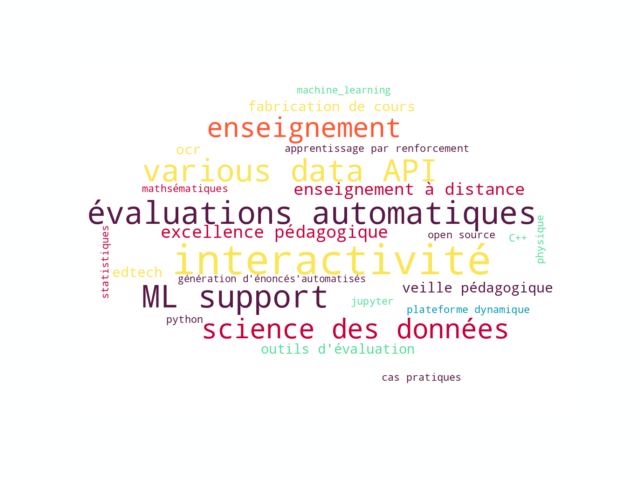
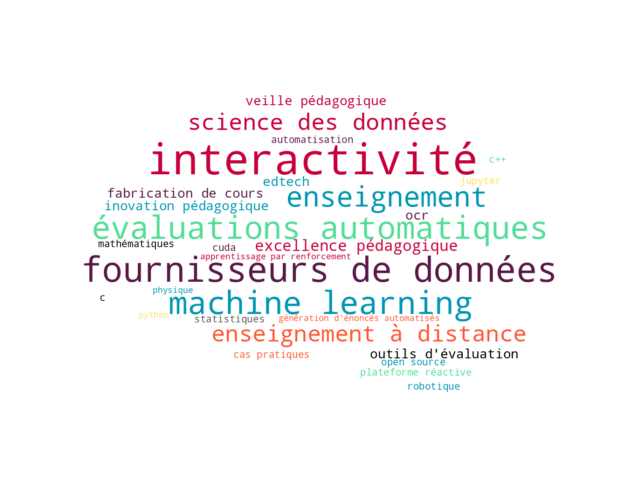
Update keywords

Changed region(s): [[0.125, 0.1562, 0.875, 0.8125]]

diff --git a/bulkhours/core/keywords.py b/bulkhours/core/keywords.py
@@ -5,36 +5,47 @@ import random as rd
 from PIL import Image
 
 from . import tools
-from .colors import caliases
+
+
+def get_caliases():
+    from .colors import caliases
+    ccaliases = caliases
+    #ccaliases["courses"] = "#585858"
+    return ccaliases
 
 
 def keywords():
-    return {"edtech": 2, 
-        "veille pédagogique": 2,
-        "cas pratiques": 1,
-        "génération d'énoncés'automatisés": 1, 
-        "interactivité": 5, 
-        "ML support": 4,
-        "various data API": 4,
-        "évaluations automatiques": 4,
-        "fabrication de cours": 2, 
-        "enseignement": 3, 
-        "science des données": 3, 
-        "plateforme dynamique": 1,
-        "outils d'évaluation": 2, 
-        "ocr": 2,
-        "enseignement à distance": 3,
-        "excellence pédagogique": 3,
-        "apprentissage par renforcement": 1,
-        "open source": 1,
-        "mathsématiques": 1,
-        "physique": 1,
-        "statistiques": 1,
-        "machine_learning": 1,
-        "jupyter": 1,
-        "python": 1,
-        "C++": 1,
+    return {"edtech": [2, None], 
+        "veille pédagogique": [2, None],
+        "cas pratiques": [1, None],
+        "génération d'énoncés automatisés": [1, None],
+        "interactivité": [5, None], 
+        "fournisseurs de données": [4, None],
+        "évaluations automatiques": [4, None],
+        "fabrication de cours": [2, None], 
+        "inovation pédagogique": [2, None],
+        "enseignement": [3, None],
+        "science des données": [3, None],
+        "plateforme réactive": [1, None],
+        "outils d'évaluation": [2, None],
+        "ocr": [2, None],
+        "enseignement à distance": [3, None],
+        "excellence pédagogique": [3, None],
+        "apprentissage par renforcement": [1, None],
+        "open source": [1, None],
+        "mathématiques": [1, None],
+        "physique": [1, None],
+        "statistiques": [1, None],
+        "machine learning": [4, None],
+        "jupyter": [1, None],
+        "automatisation": [1, None],
+        "robotique": [1, "courses"],
+        "python": [1, "courses"],
+        "c++": [1, "courses"],
+        "c": [1, "courses"],
+        "cuda": [1, "courses"],
 }
+
 
 
 def get_keywords():
@@ -42,13 +53,17 @@ def get_keywords():
 
     words = []
     for k, v in keywords().items():
-        words += [k] * v
+        words += [k] * v[0]
 
     rd.shuffle(words)
     return words
 
 def get_colors(word, font_size, position, orientation, random_state=None, **kwargs):
-    return rd.choice(list(caliases.values()))
+    wparams = keywords()[word]
+
+    if wparams[1] is not None and wparams[1] in get_caliases():
+        return get_caliases()[wparams[1]]
+    return rd.choice(list(get_caliases().values()))
 
 
 def get_wordscloud(default="brain"):
